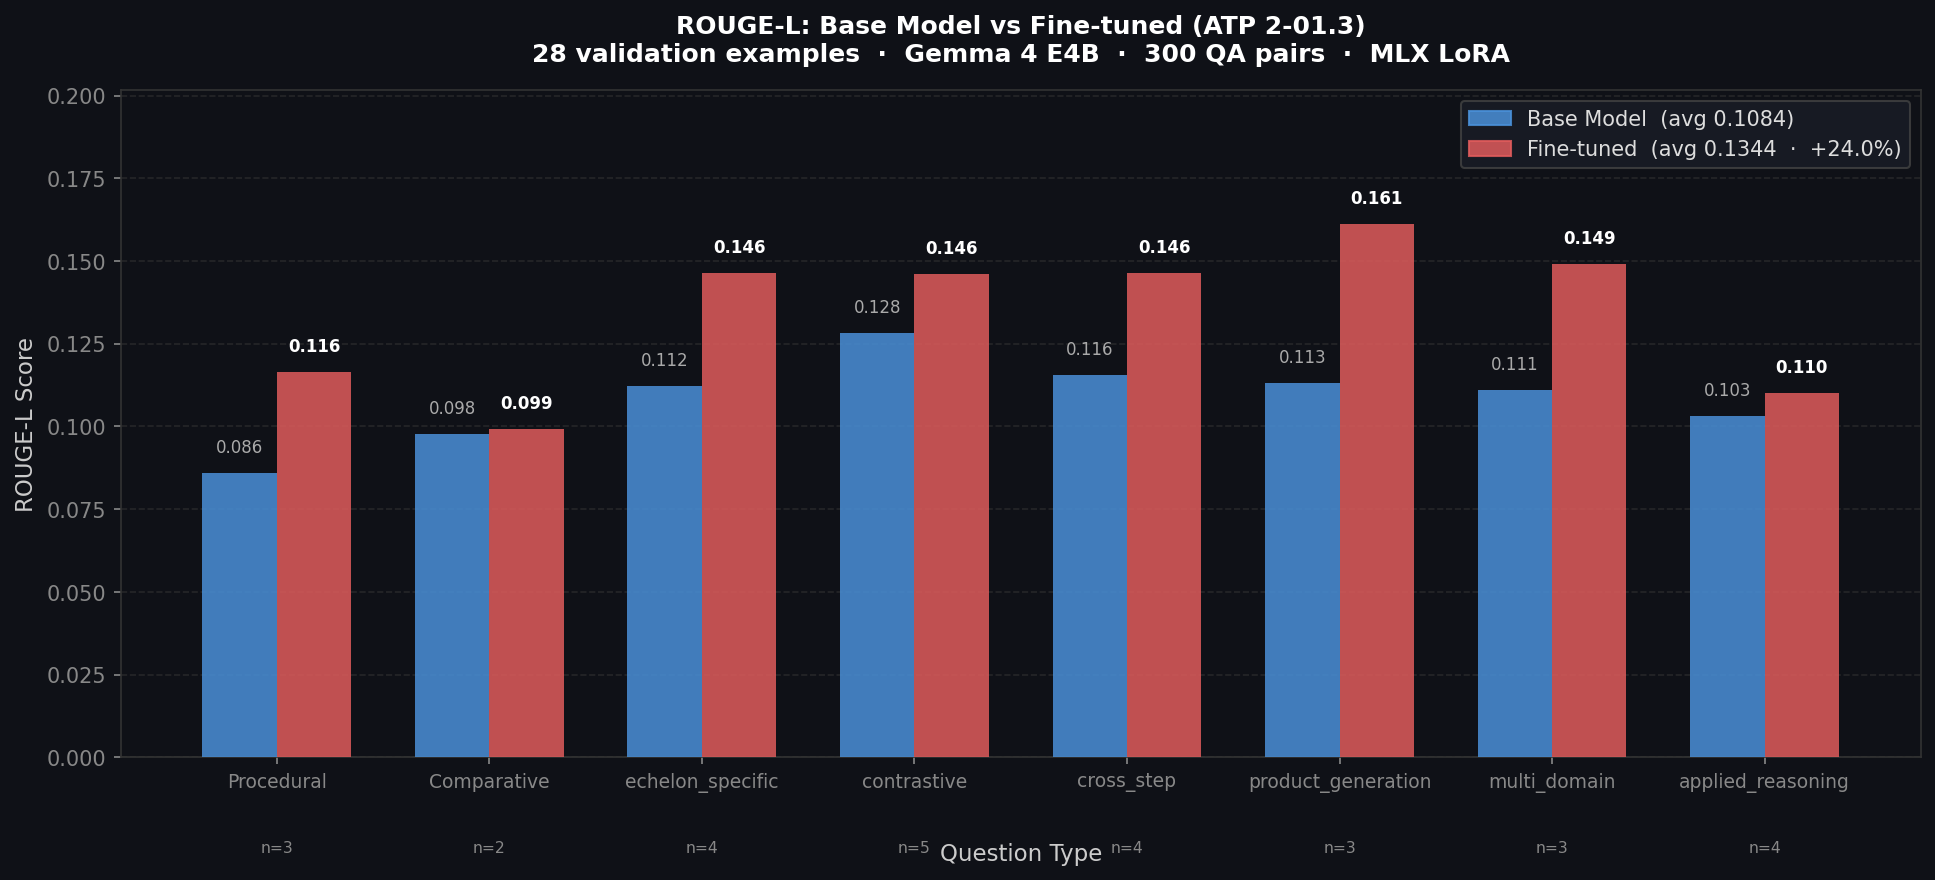
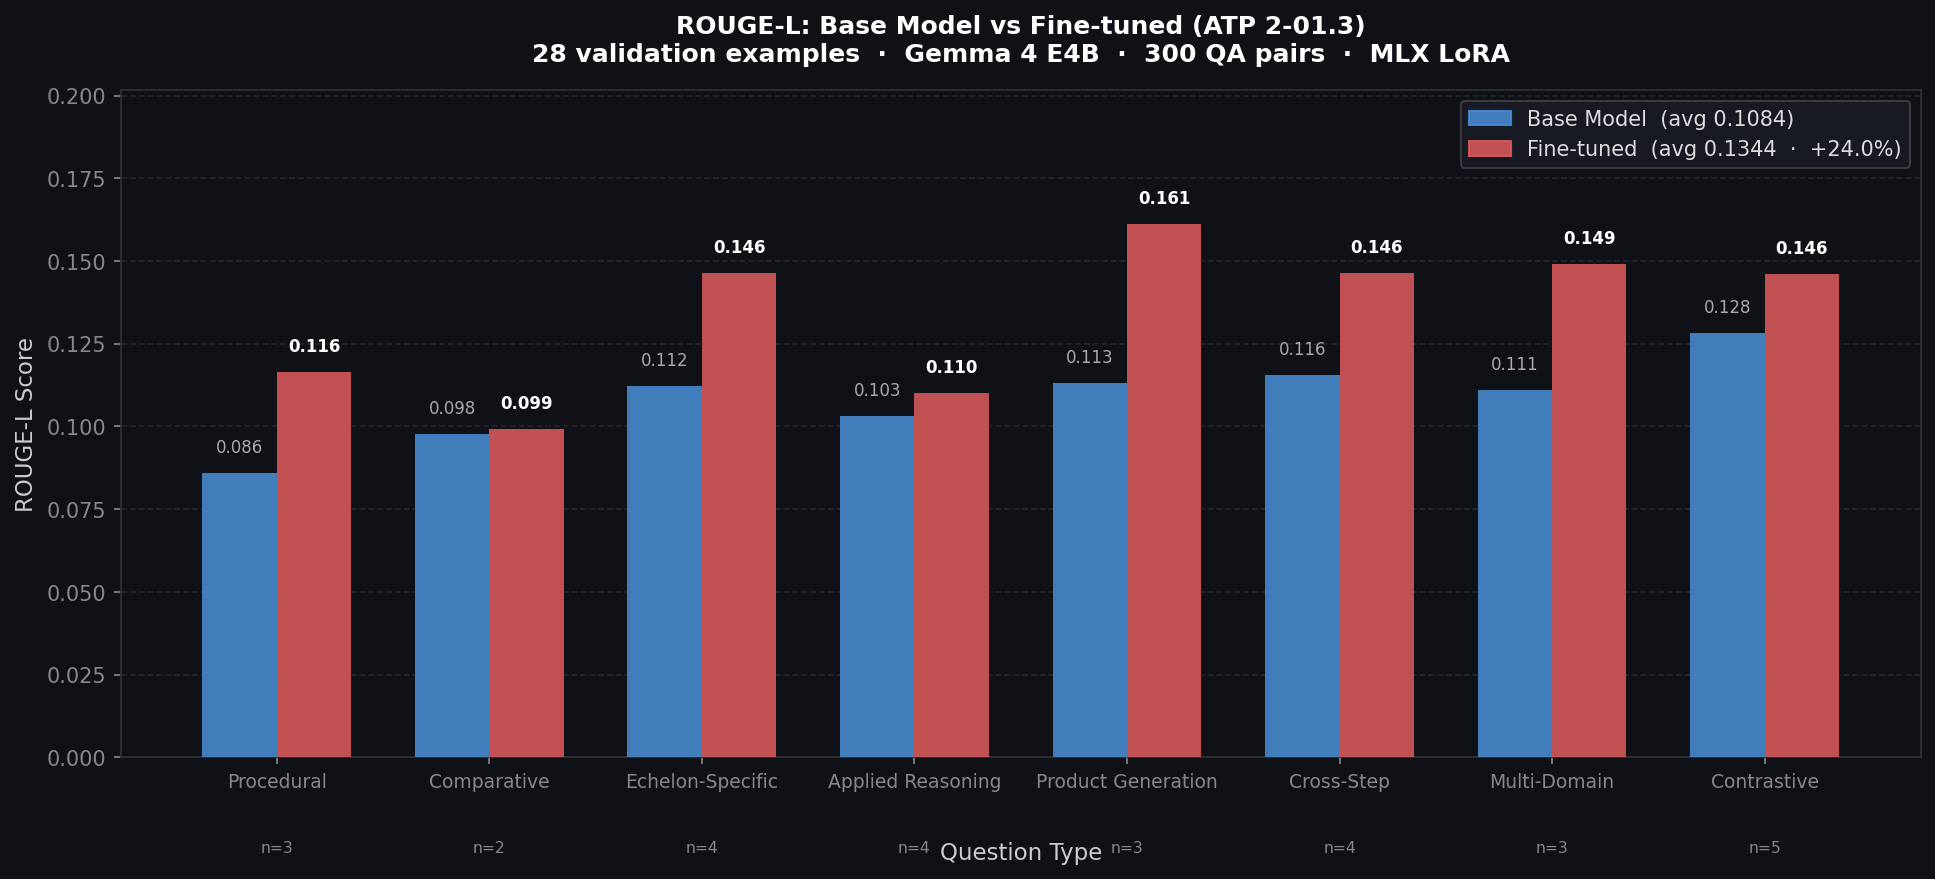
Fix plot_eval.py type labels to match ATP-specific question types
Generator uses 9 ATP-specific types (echelon_specific, cross_step,
applied_reasoning, etc.) not the generic 8. Chart now shows all types.

diff --git a/scripts/plot_eval.py b/scripts/plot_eval.py
@@ -22,14 +22,15 @@ VALID_PATH   = 'data/valid.jsonl'
 RESULTS_PATH = 'eval/results.jsonl'
 
 TYPE_LABELS = {
-    'factual':                 'Factual',
-    'procedural':              'Procedural',
-    'conceptual':              'Conceptual',
-    'scenario':                'Scenario',
-    'application':             'Application',
-    'comparative':             'Comparative',
-    'definition':              'Definition',
-    'relationship':            'Relationship',
+    'factual':            'Factual',
+    'procedural':         'Procedural',
+    'comparative':        'Comparative',
+    'echelon_specific':   'Echelon-Specific',
+    'applied_reasoning':  'Applied Reasoning',
+    'product_generation': 'Product Generation',
+    'cross_step':         'Cross-Step',
+    'multi_domain':       'Multi-Domain',
+    'contrastive':        'Contrastive',
 }
 
 TYPE_ORDER = list(TYPE_LABELS.keys())